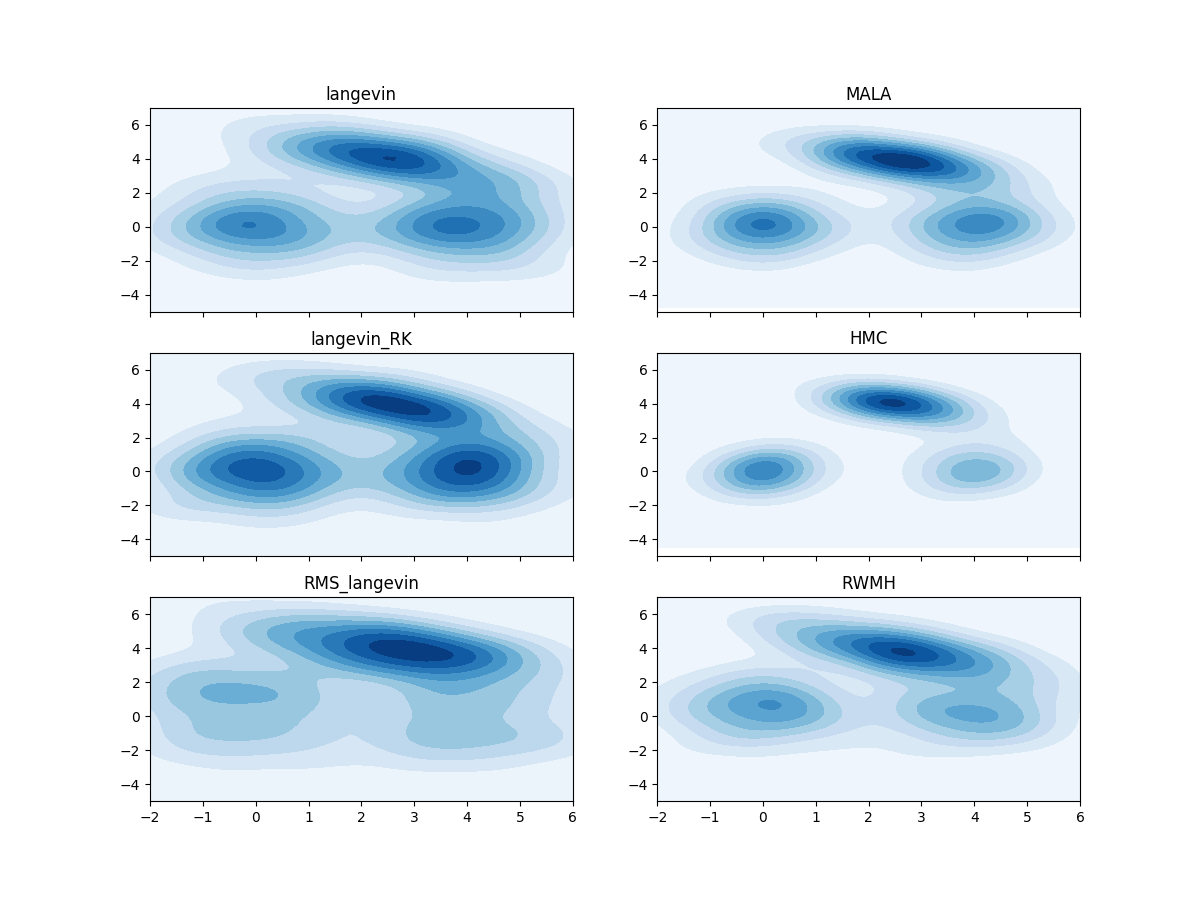
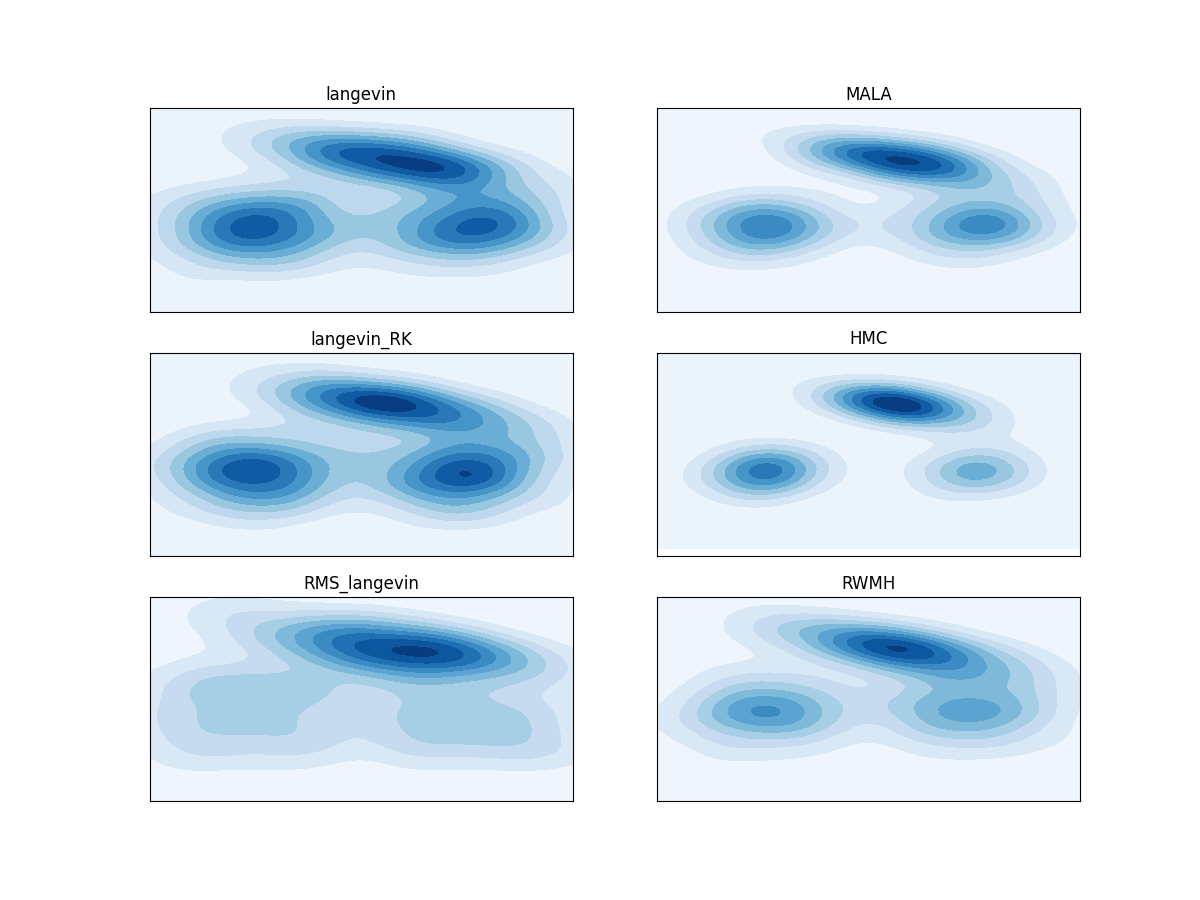
Update README.md

diff --git a/examples/shallow/mcmc_2d.py b/examples/shallow/mcmc_2d.py
@@ -129,13 +129,15 @@ def main():
 		col = i % 3
 		ax = axes[r, c]
 
-		ax.contour(X, Y, Z, alpha=0.5, cmap='Oranges')
+		# ax.contour(X, Y, Z, alpha=0.5, cmap='Oranges')
 		# ax.hist2d(samps[:,0], samps[:,1], alpha=0.5, bins=25)
 		sns.kdeplot(samps[:,0], samps[:,1], shade=True, shade_lowest=True,
 					cmap='Blues', ax=ax)
 		ax.set_title(name)
 		ax.set_xlim(-2, 6)
 		ax.set_ylim(-5, 7)
+		ax.set_xticks([])
+		ax.set_yticks([])
 	
 
 	plt.show()

diff --git a/README.md b/README.md
@@ -1,17 +1,77 @@
 # jax-bayes
-Bayesian inference with Python and Jax.
+High-dimensional Bayesian inference with Python and Jax.
 
 ## Overview
-jax-bayes is designed to accelerate research in high-dimensional Bayesian inference, specifically for deep neural networks. This library is built on [Jax](https://github.com/google/jax) which has a number of features that make it ideal for working with high-dimensional probability distributions including: functional programming, automatic differentiation, and automatic vectorization, accelerator-agnostic backend via [XLA](https://www.tensorflow.org/xla), etc... (more discussion below).
+jax-bayes is designed to accelerate research in high-dimensional Bayesian inference, specifically for deep neural networks. It is built on [Jax](https://github.com/google/jax) 
 
-jax-bayes supports two different methods for sampling from high-dimensional inference: **Markov Chain Monte Carlo** (MCMC) and **Variational Inference** (VI). The former iterates a Markov chain which has an invariant measure distribution (approximately) equal to the target distribution, whereas the latter finds the closest (in some sense) distribution in a parameterized family to the target distribution. 
+jax-bayes supports two different methods for sampling from high-dimensional inference: 
+- **Markov Chain Monte Carlo** (MCMC) which iterates a Markov chain which has an invariant measure distribution (approximately) equal to the target distribution
+- **Variational Inference** (VI): which finds the closest (in some sense) distribution in a parameterized family to the target distribution. 
 
-jax-bayes allows you to define a sampler (MCMC or VI) that operates on arrays, and uses some very effective meta-programming in the form of decorators to "tree-ify" these methods to operate on arbitrary containers. This is the approach taken in ``jax.experimental.optimizers``, and we have essentially adapted it to support MCMC and VI. This flexible approach allows you to *use neural networks from other JAX-based libraries for bayesian ML* (our examples use Deemind's [Haiku](https://github.com/deepmind/dm-haiku) library for building neural networks).
+jax-bayes allows you to  **"bring your own JAX-based network to the Bayesian ML party"** by providing samplers that operate on arbitrary data structures of JAX arrays and JAX transformations. You can also define your own sampler in terms of JAX arrays and lift them to general-purpose samplers (using the same approach as in [``jax.experimental.optimizers``](https://jax.readthedocs.io/en/latest/_modules/jax/experimental/optimizers.html))
 
-*TODO: Add quickstart with the langevin algorithm*
+### Quickstart
+You can easily modify this [Haiku quickstart example](https://github.com/deepmind/dm-haiku#quickstart) to support bayesian inference:
+```python
+# ---- From the Haiku Quickstart ----
+import jax.numpy as jnp
+import haiku as hk
+
+def softmax_cross_entropy(logits, labels):
+    one_hot = jax.nn.one_hot(labels, logits.shape[-1])
+    return -jnp.sum(jax.nn.log_softmax(logits) * one_hot, axis=-1)
+
+def logprob_fn(batch):
+
+    mlp = hk.Sequential([
+        hk.Linear(300), jax.nn.relu,
+        hk.Linear(100), jax.nn.relu,
+        hk.Linear(10),
+    ])
+    logits = mlp(batch['images'])
+    return jnp.mean(softmax_cross_entropy(logits, batch['labels']))
+
+logprob = hk.transform(logprob_fn)
+
+# ---- With jax-bayes ---- 
+
+#instantiate the sampler
+key = jax.random.PRNGKey(0)
+from jax_bayes.mcmc import langevin_fns
+init, propose, update, get_params = langevin_fns(key, lr=1e-3)
+
+#define the mcmc step
+@jax.jit
+def mcmc_step(state, keys, batch):
+    params = get_params(state)
+    batch_logprob = lambda p: logprob.apply(p, None, batch)
+    
+    #use vmap + grad to compute per-sample gradients
+    g = jax.vmap(jax.grad(batch_logprob))(params)
+
+    #omiting some unused arguments for this example
+    propose_state, new_keys = sampler_propose(g, state, keys, ...)
+    next_state, new_keys = sampler_update(propose_state, new_keys, ...)
+
+    return next_state, new_keys
+
+#initialize the sampler state
+params = logprob.init(jax.random.PRNGKey(1), next(dataset))
+sampler_state, keys = init(params)
+
+#run the mcmc algorithm
+for i in range(1000):
+    sampler_state, keys = mcmc_step(sampler_state, keys, next(dataset))
+
+# extract your samples
+sampled_params = get_params(sampler_state)
+```
+
+### Logits != Uncertainty
+Sometimes we want our neural networks to say "I don't know" (think self-driving cars, machine translation, etc) but, as well-illustrated out in http://proceedings.mlr.press/v48/gal16.pdf, the logits of a neural network should not serve a substitute for uncertainty. This library allows you to model *weight uncertainty* about the data by sampling from the posterior rather than optimizing it. You can also take advantge of occam's razor and other benefits of Bayesian statistics.
 
 ## Installation
-jax-bayes requires jax>=0.1.74 and jaxlib>=0.1.15 as separate dependencies, since jaxlib needs to be installed with accelerator (CPU)
+jax-bayes requires jax>=0.1.74 and jaxlib>=0.1.15 as separate dependencies, since jaxlib needs to be [installed](https://github.com/google/jax#pip-installation) for the accelerator (CPU / GPU / TPU).
 
 Assuming you have jax + jaxlib installed, install via pip:
 ```
@@ -27,13 +87,14 @@ pip install git+https://github.com/jamesvuc/jax-bayes
             return init, propose, update, get_params
     ```
     where the returned functions have specific signatures. 
-    - ``jax_bayes.mcmc.langevin_fns`` is a sampler definition which implements the Unadjusted Langevin Algorithm
-    - ``jax_bayes.mcmc.mala_fns`` is a sampler definition which implements the Metropolis Adjusted Langevin Algorithm
-    - ``jax_bayes.mcmc.rk_langevin_fns`` is a sampler definition which implements a stochastic Runge Kutta solver for the continuous-time Langevin dyanmics
-    -  ``jax_bayes.mcmc.hmc_fns`` is a sampler definition which implements the Hamitonian Monte Carlo algorithm
-    - ``jax_bayes.mcmc.rms_langevin_fns`` is a sampler which implements a preconditioned Langevin algorithm using the exponential moving root-mean-square estimate of the gradient as the preconditionner matrix (like RMSProp)
-    - ``jax_bayes.mcmc.rwmh_fns`` is a sampler which implements the Random Walk Metropolis Hastings Algorithm.
-    - ``jax_bayes.mcmc.bb_mcmc`` is a function which puts the sampler functions into a "black-box" function suitable for sampling from simple densities (e.g. without sampling batches).
+    - A bunch of samplers:
+        - ``jax_bayes.mcmc.langevin_fns`` (Unadjusted Langevin Algorithm)
+        - ``jax_bayes.mcmc.mala_fns`` (Metropolis Adjusted Langevin Algorithm)
+        - ``jax_bayes.mcmc.rk_langevin_fns`` (stochastic Runge Kutta solver for the continuous-time Langevin dyanmics)
+        -  ``jax_bayes.mcmc.hmc_fns`` (Hamitonian Monte Carlo algorithm)
+        - ``jax_bayes.mcmc.rms_langevin_fns`` (preconditioned Langevin algorithm using the smoothed root-mean-square estimate of the gradient as the preconditionner matrix (like RMSProp))
+        - ``jax_bayes.mcmc.rwmh_fns`` implements (Random Walk Metropolis Hastings Algorithm.)
+    - ``jax_bayes.mcmc.bb_mcmc`` wraps a given sampler into a "black-box" function suitable for sampling from simple densities (e.g. without sampling batches).
 - ``jax_bayes.variational`` contains the variational inference functionality. It provides:
     - ``jax_bayes.variational.variational_family`` which is a decorator that tree-ifies the variational family's methods. A variational family is defined as a callable returning a tuple of functions
     ```python
@@ -42,8 +103,22 @@ pip install git+https://github.com/jamesvuc/jax-bayes
             return init, sample, evaluate, get_samples, next_key, entropy
     ```
     where the returned functions have specific signatures. The returned object is not, however, a tree-ified collection of functions but a class that contains these functions
-    - ``jax_bayes.variational.diag_mvn_fns`` is a variational family definition which implements the diagonal multivariate gaussian family
+    - ``jax_bayes.variational.diag_mvn_fns`` (diagonal multivariate gaussian family)
 
 ## Examples
+We have provided some diverse examples, some of which are under active development --- see ``examples/`` for more details. As an overview:
+1. Shallow examples for sampling from regular probability distributions using MCMC and VI (such as):
+![alt text](https://github.com/jamesvuc/jax-bayes/blob/master/assets/mcmc_2d.png "Logo Title Text 1")
+2. Deep examples for doing deep Bayesian ML (mostly with Colab)
+    1. Neural Network Regession
+    2. MNIST with 300-100-10 MLP
+    3. CIFAR10 with a CNN
+    4. Attention-based Neural Machine Translation
+![alt text](https://github.com/jamesvuc/jax-bayes/blob/master/assets/nn_regression_mcmc.png "Logo Title Text 1")
 
-## Design Philosophy
+<!-- ## Design Philosophy -->
+
+<!-- which has a number of features that make it ideal for working with high-dimensional probability distributions including: functional programming, automatic differentiation, and automatic vectorization, accelerator-agnostic backend via [XLA](https://www.tensorflow.org/xla), etc... (more discussion below).
+
+jax-bayes allows you to define a sampler (MCMC or VI) that operates on arrays, and uses some very effective meta-programming in the form of decorators to "tree-ify" these methods to operate on arbitrary containers. This is the approach taken in ``jax.experimental.optimizers``, and we have essentially adapted it to support MCMC and VI. This flexible approach allows you to *use neural networks from other JAX-based libraries for bayesian ML* (our examples use Deemind's [Haiku](https://github.com/deepmind/dm-haiku) library for building neural networks).
+ -->
